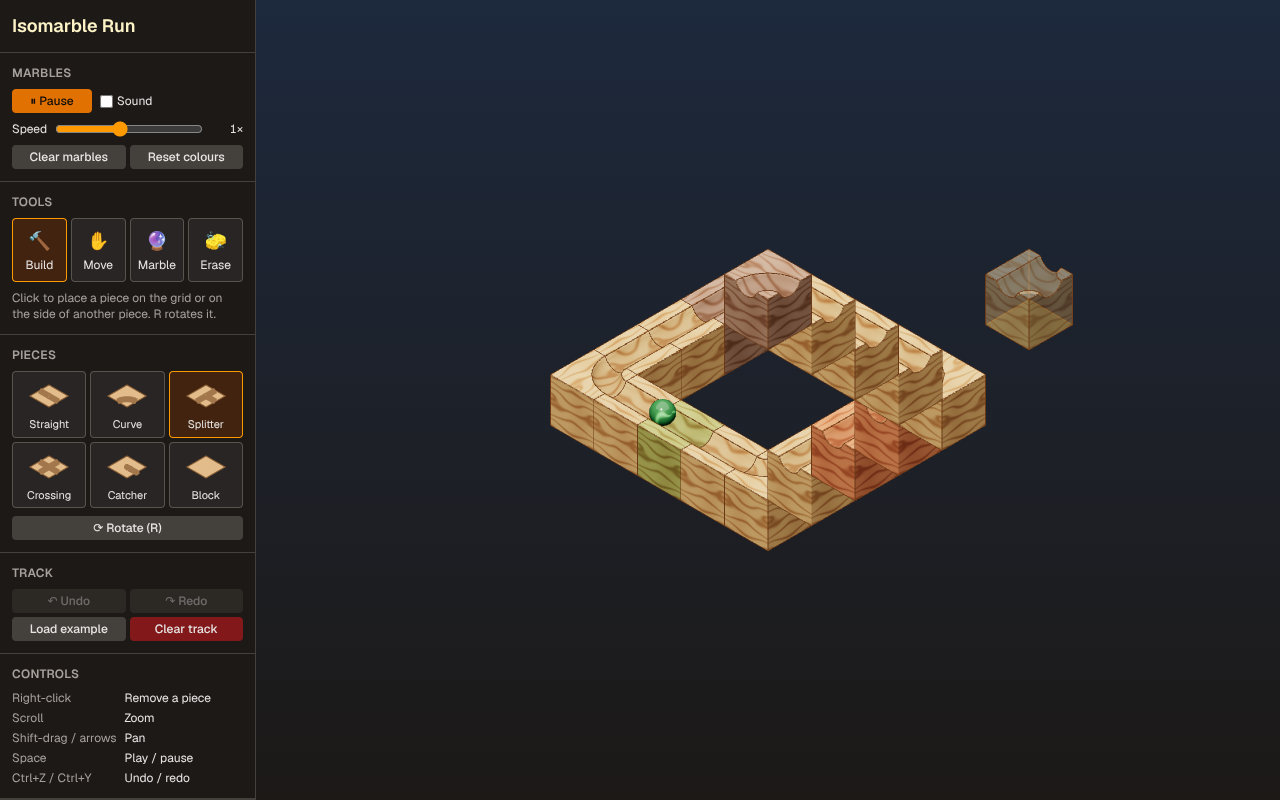
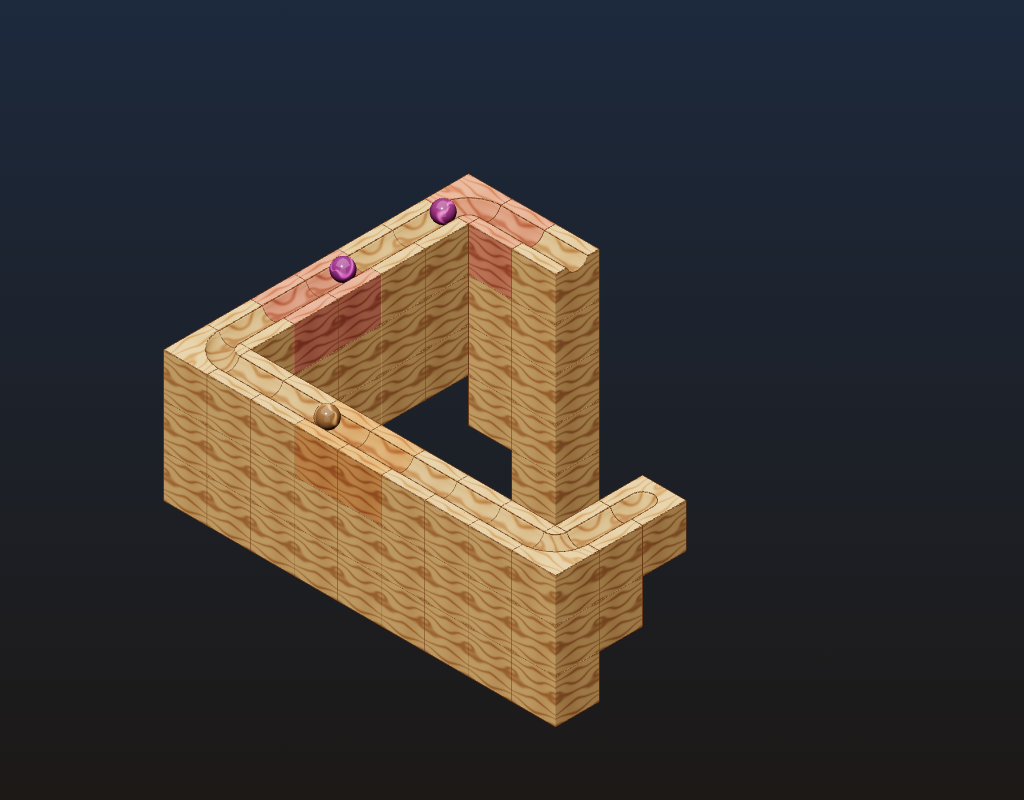
Fix what counts as "looks connected", and land on closer blocks when falling forward
- A join between pieces only counts when no wood covers it. Heading down
  the screen (+x, +y) the next piece must be at the same depth or closer to
  the camera; heading up the screen, the same depth or further away.
  Before, a lower piece further away could connect even though the front
  wall of the upper piece hid the join, so it looked like a step.
- Marbles falling towards the camera now land on anything they visibly
  drop onto, including blocks that are really closer to the camera.
  Marbles falling off the back of a track still drop behind blocks in
  front of them.
- New starter track: Escher's Waterfall. Marbles fall off a tower into a
  catcher, then roll along seamless "flat" track back to the top.

Claude-Session: https://claude.ai/code/session_01Xj11xzBEuCa8qFYmpc4XS1

diff --git a/src/lib/simulation.test.ts b/src/lib/simulation.test.ts
@@ -41,20 +41,40 @@ describe("pieceExits", () => {
 });
 
 describe("TrackIndex.findConnection", () => {
-  it("connects pieces that only line up on screen", () => {
-    const upper = createPiece("straight", 0, { x: 0, y: 0, z: 1 });
-    // One level down and one step back looks exactly like the next cell along
+  it("joins a piece that looks next door but is a level up and closer", () => {
+    const start = createPiece("straight", 0, { x: 0, y: 0, z: 0 });
+    // One step along the line of sight from the true neighbour (1, 0, 0)
+    const closer = createPiece("straight", 0, { x: 2, y: 1, z: 1 });
+    const track = new TrackIndex([start, closer]);
+    expect(track.findConnection(start, "+x")).toBe(closer);
+  });
+
+  it("won't join a piece whose join is hidden behind a wall", () => {
+    const start = createPiece("straight", 0, { x: 0, y: 0, z: 1 });
+    // Lower and further away: the front wall of `start` covers the join
     const lower = createPiece("straight", 0, { x: 0, y: -1, z: 0 });
-    const track = new TrackIndex([upper, lower]);
-    expect(track.findConnection(upper, "+x")).toBe(lower);
+    const track = new TrackIndex([start, lower]);
+    expect(track.findConnection(start, "+x")).toBeUndefined();
+  });
+
+  it("heading up the screen, joins a piece that is further away", () => {
+    const start = createPiece("straight", 0, { x: 0, y: 0, z: 1 });
+    const further = createPiece("straight", 0, { x: -2, y: -1, z: 0 });
+    const closer = createPiece("straight", 0, { x: 0, y: 1, z: 2 });
+    expect(new TrackIndex([start, further]).findConnection(start, "-x")).toBe(
+      further,
+    );
+    expect(
+      new TrackIndex([start, closer]).findConnection(start, "-x"),
+    ).toBeUndefined();
   });
 
   it("prefers the piece closest to the camera", () => {
-    const start = createPiece("straight", 0, { x: 0, y: 0, z: 1 });
-    const behind = createPiece("straight", 0, { x: 0, y: -1, z: 0 });
-    const neighbour = createPiece("straight", 0, { x: 1, y: 0, z: 1 });
-    const track = new TrackIndex([start, behind, neighbour]);
-    expect(track.findConnection(start, "+x")).toBe(neighbour);
+    const start = createPiece("straight", 0, { x: 0, y: 0, z: 0 });
+    const neighbour = createPiece("straight", 0, { x: 1, y: 0, z: 0 });
+    const closer = createPiece("straight", 0, { x: 2, y: 1, z: 1 });
+    const track = new TrackIndex([start, neighbour, closer]);
+    expect(track.findConnection(start, "+x")).toBe(closer);
   });
 
   it("ignores pieces with something stacked on top", () => {
@@ -81,14 +101,30 @@ describe("Simulation", () => {
   });
 
   it("rolls across pieces that only look connected", () => {
-    const upper = createPiece("straight", 0, { x: 0, y: 0, z: 1 });
-    const lower = createPiece("straight", 0, { x: 0, y: -1, z: 0 });
+    const lower = createPiece("straight", 0, { x: 0, y: 0, z: 0 });
+    const upper = createPiece("straight", 0, { x: 2, y: 1, z: 1 });
     const sim = new Simulation(() => 0);
-    sim.setPieces([upper, lower]);
-    sim.addMarble(above(upper.cell));
+    sim.setPieces([lower, upper]);
+    sim.addMarble(above(lower.cell));
 
     const painted = paintedIds(run(sim, 1.5));
-    expect(painted.slice(0, 2)).toEqual([upper.id, lower.id]);
+    expect(painted.slice(0, 2)).toEqual([lower.id, upper.id]);
+  });
+
+  it("falling towards the camera, lands on a piece that looks below it", () => {
+    const start = createPiece("straight", 0, { x: 0, y: 0, z: 2 });
+    // Looks two cells further along and lower, but is really closer to the
+    // camera than the falling marble
+    const front = [2, 3, 4].map((x) =>
+      createPiece("straight", 0, { x: x + 2, y: 2, z: 2 }),
+    );
+    const sim = new Simulation(() => 0);
+    sim.setPieces([start, ...front]);
+    sim.addMarble(above(start.cell));
+
+    const painted = paintedIds(run(sim, 1.5));
+    expect(painted[0]).toBe(start.id);
+    expect(front.map((p) => p.id)).toContain(painted[1]);
   });
 
   it("drops behind a piece that is in front of it instead of landing on it", () => {

diff --git a/src/lib/example.ts b/src/lib/example.ts
@@ -1,58 +1,63 @@
 import type { PieceKind } from "./pieces";
 import { createPiece, type Piece } from "./track";
 
-interface Placement {
-  kind: PieceKind;
-  rotation: number;
-  /** Position on screen, as the cell this piece would be in at level 0 */
-  u: number;
-  v: number;
-  level: number;
-}
+type Placement = [
+  kind: PieceKind,
+  rotation: number,
+  /** Where the piece appears on screen, as the cell it would fill at level 0 */
+  u: number,
+  v: number,
+  level: number,
+];
 
 /**
- * A Penrose staircase: a square loop of track where every piece is one step
- * lower than the one before it, yet the last piece still joins up with the
- * first. A piece at (u + level, v + level, level) looks exactly like it is
- * at (u, v, 0) from the isometric camera, so the loop looks closed.
+ * Escher's Waterfall as a marble run. Marbles roll off the top of a tower
+ * and fall four levels into a catcher, then roll along track that looks
+ * perfectly flat all the way back to the top.
+ *
+ * The climb is hidden in the joins: heading down the screen (+x or +y),
+ * the next piece can be higher and closer to the camera and the join still
+ * looks seamless. A piece at (u + level, v + level, level) looks exactly
+ * like it is at (u, v, 0) from the isometric camera.
  */
-function penroseLoop(size: number): Piece[] {
-  const low = -Math.floor(size / 2);
-  const high = low + size - 1;
+const WATERFALL: Placement[] = [
+  // The top of the tower: marbles leave its +x end and fall
+  ["straight", 0, -2, -3, 4],
+  // The catcher at the bottom sends marbles off along +y
+  ["catcher", 1, 4, 1, 0],
+  // Heading +y (down the screen), climbing a level with each piece
+  ["straight", 1, 4, 2, 1],
+  ["curve", 2, 4, 3, 2],
+  // Back along -x and -y (up the screen), staying level
+  ["straight", 0, 3, 3, 2],
+  ["straight", 0, 2, 3, 2],
+  ["straight", 0, 1, 3, 2],
+  ["straight", 0, 0, 3, 2],
+  ["straight", 0, -1, 3, 2],
+  ["straight", 0, -2, 3, 2],
+  ["straight", 0, -3, 3, 2],
+  ["curve", 3, -4, 3, 2],
+  ["straight", 1, -4, 2, 2],
+  ["straight", 1, -4, 1, 2],
+  ["straight", 1, -4, 0, 2],
+  ["straight", 1, -4, -1, 2],
+  ["straight", 1, -4, -2, 2],
+  ["curve", 0, -4, -3, 2],
+  // And +x into the tower top, climbing the last two levels
+  ["straight", 0, -3, -3, 3],
+];
 
-  // Walk the ring clockwise on screen: corners are curves, sides straights
-  const ring: Placement[] = [];
-  const sides = [
-    { corner: [low, low], curve: 0, step: [1, 0], straight: 0 },
-    { corner: [high, low], curve: 1, step: [0, 1], straight: 1 },
-    { corner: [high, high], curve: 2, step: [-1, 0], straight: 0 },
-    { corner: [low, high], curve: 3, step: [0, -1], straight: 1 },
-  ];
-  for (const side of sides) {
-    const [cu, cv] = side.corner;
-    ring.push({ kind: "curve", rotation: side.curve, u: cu, v: cv, level: 0 });
-    for (let i = 1; i < size - 1; i++) {
-      ring.push({
-        kind: "straight",
-        rotation: side.straight,
-        u: cu + side.step[0] * i,
-        v: cv + side.step[1] * i,
-        level: 0,
-      });
+/** The starter track */
+export function exampleTrack(): Piece[] {
+  const pieces: Piece[] = [];
+  for (const [kind, rotation, u, v, level] of WATERFALL) {
+    const x = u + level;
+    const y = v + level;
+    pieces.push(createPiece(kind, rotation, { x, y, z: level }));
+    // A wooden pillar down to the floor
+    for (let z = 0; z < level; z++) {
+      pieces.push(createPiece("block", 0, { x, y, z }));
     }
   }
-
-  return ring.map(({ kind, rotation, u, v }, index) => {
-    const level = ring.length - 1 - index;
-    return createPiece(kind, rotation, {
-      x: u + level,
-      y: v + level,
-      z: level,
-    });
-  });
-}
-
-/** The starter track: an endless Penrose staircase */
-export function exampleTrack(): Piece[] {
-  return penroseLoop(5);
+  return pieces;
 }

diff --git a/src/lib/track.ts b/src/lib/track.ts
@@ -99,8 +99,9 @@ export class TrackIndex {
 
   /**
    * The piece a marble rolls onto when it leaves `piece` heading in
-   * `direction`: any piece whose opening lines up on screen with this
-   * exit. If several line up, the one closest to the camera wins.
+   * `direction`: a piece whose opening lines up on screen with this exit,
+   * at a depth where the join really looks seamless. If several qualify,
+   * the one closest to the camera (the one you can see) wins.
    */
   findConnection(piece: Piece, direction: Direction): Piece | undefined {
     const { x, y, z } = piece.cell;
@@ -111,7 +112,9 @@ export class TrackIndex {
       oppositeDirection(direction),
     );
     return frontmost(
-      (this.ports.get(key) ?? []).filter((other) => other !== piece),
+      (this.ports.get(key) ?? []).filter(
+        (other) => other !== piece && looksJoined(piece, other, direction),
+      ),
     );
   }
 
@@ -122,6 +125,24 @@ export class TrackIndex {
   piecesInColumn(column: { a: number; b: number }, rest: number): Piece[] {
     return this.columns.get(columnKey(column.a, column.b, rest)) ?? [];
   }
+}
+
+/**
+ * Whether two pieces whose openings line up on screen really look joined.
+ *
+ * `next` sits k steps along the line of sight from the true neighbouring
+ * cell (k > 0 is closer to the camera). Where the pieces meet, the one
+ * further down the screen must not be further away: otherwise the front
+ * wall of the upper piece hangs down over the join and it looks like a step.
+ * Heading down the screen (+x, +y) that means k >= 0; heading up it, k <= 0.
+ */
+export function looksJoined(
+  from: Piece,
+  next: Piece,
+  direction: Direction,
+): boolean {
+  const k = next.cell.z - from.cell.z;
+  return direction === "+x" || direction === "+y" ? k >= 0 : k <= 0;
 }
 
 function portKey(a: number, b: number, side: Direction): string {

diff --git a/src/lib/simulation.ts b/src/lib/simulation.ts
@@ -416,6 +416,19 @@ export class Simulation {
     const v = DIRECTION_VECTORS[direction];
     marble.velocity = { x: v.x * marble.speed, y: v.y * marble.speed, z: 0 };
     marble.rolling = null;
+
+    // Falling towards the camera, a marble can land on anything that looks
+    // like it is below it, even if it is really closer to the camera. Slide
+    // it (invisibly) to the front so nothing it falls past is in front of
+    // it. Falling away from the camera, it keeps its depth and can drop
+    // behind pieces in front of it.
+    if (direction === "+x" || direction === "+y") {
+      const forward = (this.bounds.frontDepth - depthOf(marble.position)) / 3;
+      if (forward > 0) {
+        marble.position = slideAlongView(marble.position, forward);
+      }
+    }
+
     // Marbles change colour each time they set off on a new fall
     marble.hue = (marble.hue + 30 + Math.floor(this.random() * 111)) % 360;
   }

diff --git a/README.md b/README.md
@@ -4,7 +4,7 @@ An isometric wooden marble run where impossible tracks work. Build a run out of 
 
 **Play it:** https://james-ws-mccullough.github.io/isomarble-run/
 
-![Glass marbles rolling round an endless Penrose staircase made of wooden track pieces](docs/screenshot.png)
+![Glass marbles rolling round an impossible wooden marble run inspired by Escher's Waterfall](docs/screenshot.png)
 
 ## How to play
 
@@ -25,7 +25,7 @@ Pieces: **1** Straight, **2** Curve, **3** Splitter, **4** Crossing, **5** Catch
 | Space | Play / pause |
 | Ctrl+Z / Ctrl+Y | Undo / redo |
 
-Press **Load example** to get the Penrose staircase back.
+Press **Load example** to get the starter track back: Escher's Waterfall, where marbles fall off a tower and roll along a "flat" track back to the top.
 
 ## Running locally
 
@@ -53,8 +53,8 @@ Then open http://localhost:3000.
 
 The world is a real 3D grid (x and y across, z up), drawn with a true isometric camera that looks along the diagonal (−1, −1, −1). From that angle, a point and the point one step along *every* axis, p + (1, 1, 1), land on exactly the same spot on screen. A piece one level down and one step forward looks identical to a piece right next door, and the simulation uses that:
 
-- **"If it looks connected, it is connected."** When a marble reaches the edge of a piece, it rolls onto any piece whose opening lines up on screen, at whatever depth it really is. The marble slides along your line of sight to get there, which is invisible from this camera.
-- **Falling uses real gravity.** Marbles leave the end of a track with their speed, fall in an arc, and land on the first top face they visibly drop onto. A face that is *in front* of the marble doesn't count: the marble drops behind it instead.
+- **"If it looks connected, it is connected."** When a marble reaches the edge of a piece, it rolls onto any piece whose groove visibly carries on from this one, at whatever depth it really is. The marble slides along your line of sight to get there, which is invisible from this camera. A join only counts if no wood covers it: heading down the screen (+x or +y) the next piece must be at the same depth or closer to you; heading up the screen it must be the same depth or further away. Otherwise the front wall of one piece would hang over the join and it would look like a step.
+- **Falling uses real gravity.** Marbles leave the end of a track with their speed and fall in an arc. A marble falling towards the camera lands on whatever it visibly drops onto. A marble falling off the back of a track keeps its real depth, so it drops *behind* pieces that are in front of it.
 - **Speed is real too, within limits.** Falls speed marbles up, friction slows them back down to a gentle cruising speed on the flat, curves scrub off a little speed, and catchers bounce marbles back. Falling speed is capped, so endless loops settle into a steady pace.
 - **Grooves are rounded channels.** The 3D models and the physics share one groove shape, so marbles sit snugly in the bottom of the groove, roll down into it if they land on the edge, and bounce off the side of a piece that has no opening.
 - Marbles that fall off the bottom of the board come back in at the top. Each marble stains the pieces it rolls over and changes colour every time it starts a new fall.
@@ -81,7 +81,7 @@ src/
     space.ts              World coordinates and the isometric projection
     directions.ts         The four horizontal directions
     sound.ts              Web Audio landing taps and speed-matched rolling
-    example.ts            The Penrose staircase starter track
+    example.ts            The starter track, Escher's Waterfall
   three/
     Board.tsx             The 3D scene, pointer handling and build preview
     CameraRig.tsx         Fixed isometric camera with zoom and pan
